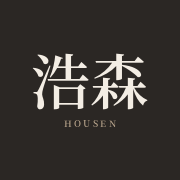
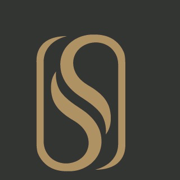
改用浩森迴紋針標誌作為網站圖示

Changed region(s): [[0.1667, 0.1667, 0.8333, 0.9722]]

diff --git a/sw.js b/sw.js
@@ -1,7 +1,7 @@
 // 浩森設計工作管理系統 service worker
 // 畫面檔案一律「網路優先」：有網路就拿最新版（略過瀏覽器快取），只有離線或網路太慢時才用手機裡的備份。
 // 所以每次發布都會在下次開啟時生效，不再依賴手動改 VERSION；只有修改這個檔案本身時才需要把 VERSION 加一。
-const VERSION = 'v1.2.0';
+const VERSION = 'v1.2.1';
 const SHELL = ['./', 'index.html', 'config.js', 'manifest.webmanifest', 'icons/icon-192.png', 'icons/icon-512.png', 'icons/apple-touch-icon.png', 'icons/logo.png'];
 const NET_WAIT = 4000;   // 網路超過 4 秒沒回應，先用備份顯示
 
